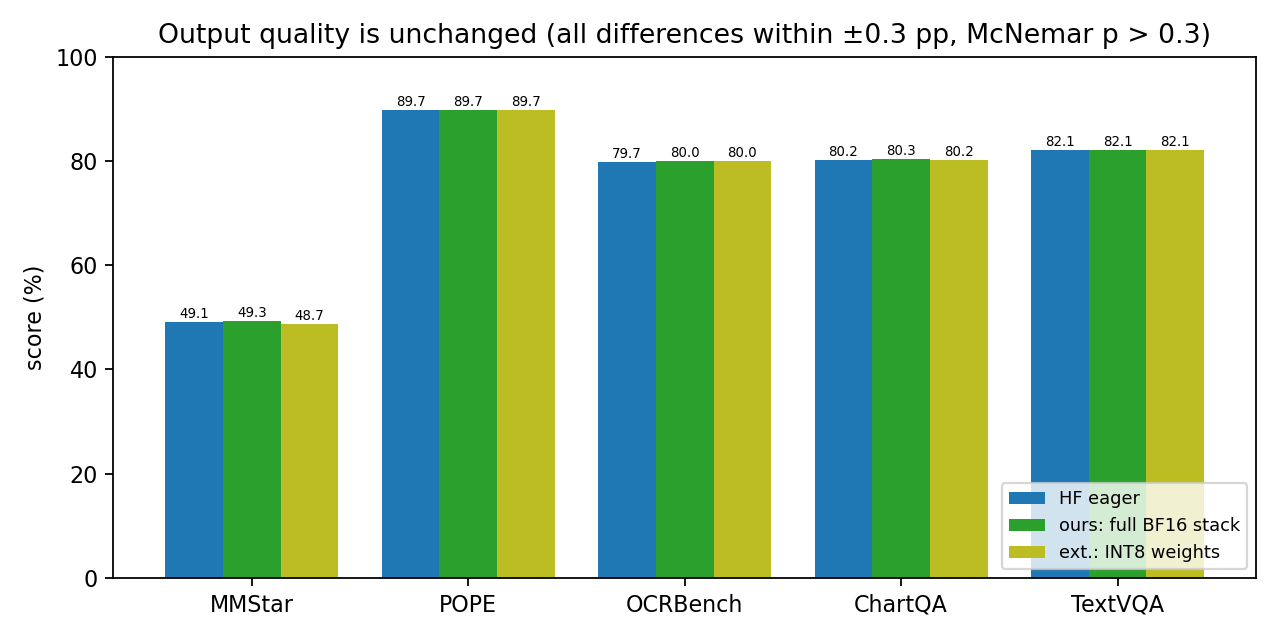
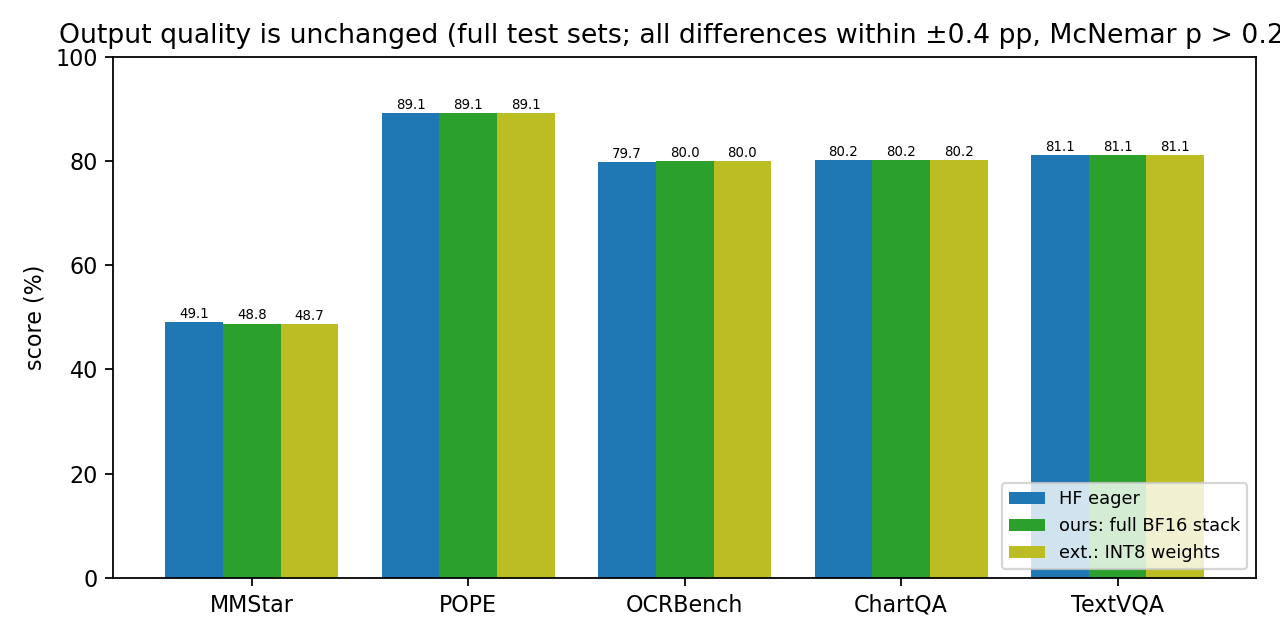
Quality figure from the full-size eval

diff --git a/benchmarks/plot_results.py b/benchmarks/plot_results.py
@@ -154,7 +154,7 @@ def fig_quality():
     for f in sorted(EVAL.glob(f"*_{GPU}_*/summary.jsonl")):
         for line in open(f):
             r = json.loads(line)
-            scores[(r["variant"].split("+")[0], r["bench"])] = 100 * r["score"]
+            scores[(r["variant"].split("+")[0], r["bench"].replace("_full", ""))] = 100 * r["score"]  # newest run wins
     series = [("HF eager", "baseline", "tab:blue"), ("ours: full BF16 stack", "fused_gemv_pf_vfused", "tab:green"),
               ("ext.: INT8 weights", "fused_w8_pf_vfused", "tab:olive")]
     series = [s for s in series if any((s[1], b) in scores for b in BENCH_LABELS)]
@@ -171,7 +171,7 @@ def fig_quality():
     ax.set_xticklabels(list(BENCH_LABELS.values()))
     ax.set_ylabel("score (%)")
     ax.set_ylim(0, 100)
-    ax.set_title("Output quality is unchanged (all differences within ±0.3 pp, McNemar p > 0.3)")
+    ax.set_title("Output quality is unchanged (full test sets; all differences within ±0.4 pp, McNemar p > 0.25)")
     ax.legend(fontsize=8, loc="lower right")
     fig.tight_layout()
     fig.savefig(OUT / "quality.png", dpi=160)
